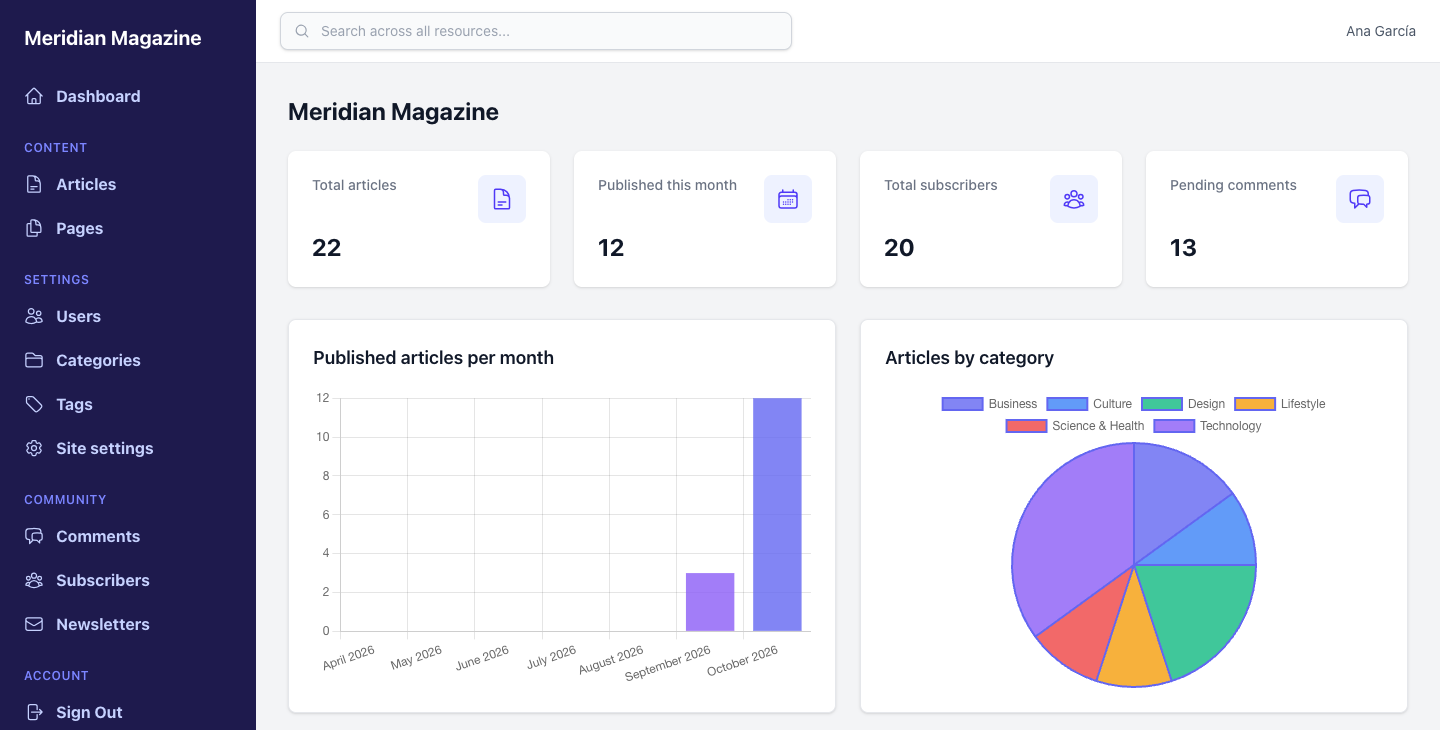
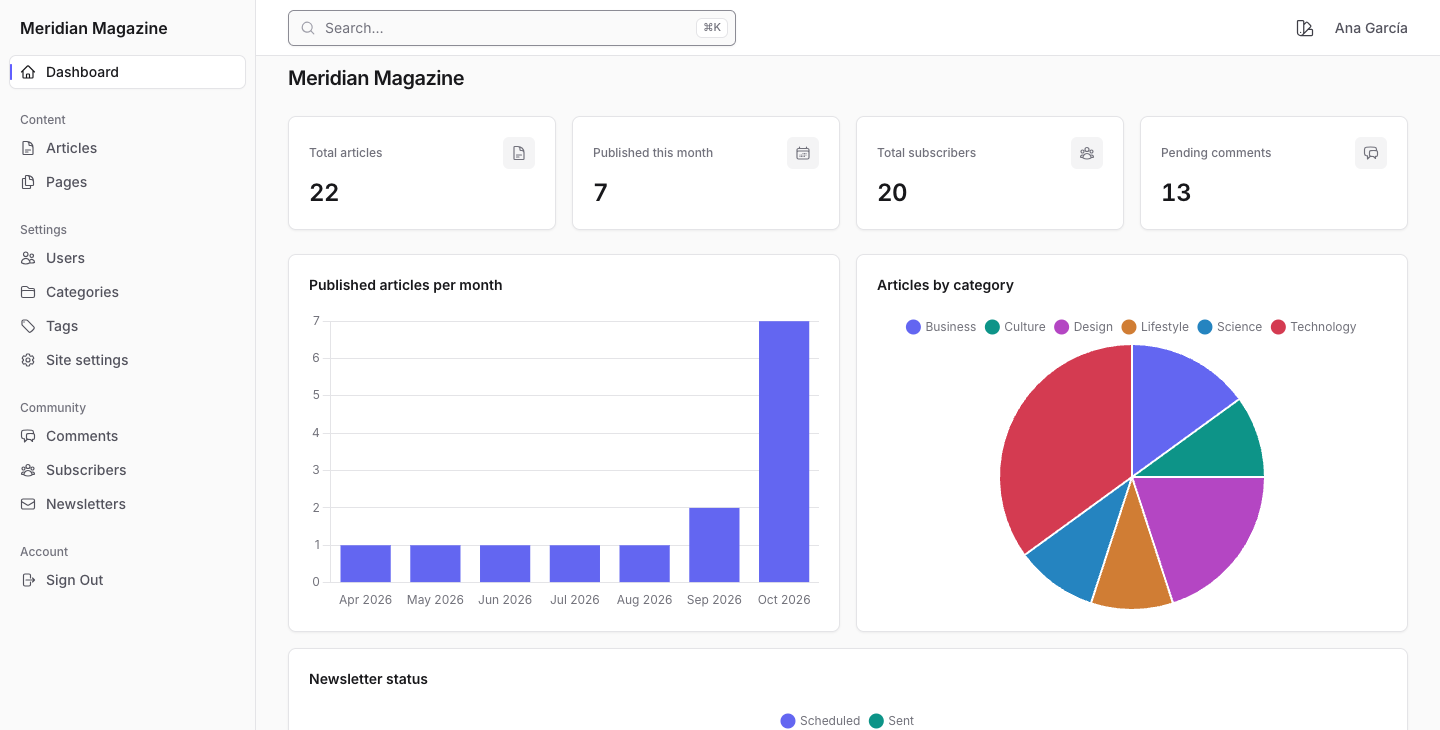
Show the Neutral look and the four demo themes in the docs
The README and the documentation home page now show the Meridian
Magazine dashboard in Neutral, with alt text that describes it. A grid
of the demo's dashboard in Neutral, Midnight, Editorial and Brutalist
opens the README's Themes section and the theming guide.

diff --git a/CHANGELOG.md b/CHANGELOG.md
@@ -84,6 +84,7 @@ and this project adheres to [Semantic Versioning](https://semver.org/spec/v2.0.0
 
 ### Documentation
 
+- **Screenshots of the new look** — The README and the documentation site's home page show the Meridian Magazine dashboard in Neutral, and the README's Themes section and the top of the theming guide show the demo's dashboard in its four themes: Neutral, Midnight, Editorial and Brutalist (`docs/site/assets/images/themes.png`).
 - **Theming guide** — `docs/guides/theming.md` documents the Neutral look, every theme property with its Neutral value and what it controls, `config.theme`, `register_theme` with a complete dark theme, `default_theme`, `theme_resolver` (per user and from a query parameter), the theme switcher and its cookie, `IronAdmin.current_theme`, fonts (privacy, Content Security Policy and how to turn the Google Fonts request off), color schemes and charts, badge and alert palettes, and the Tailwind rules for classes in host themes. `docs/reference/theme-properties.md` is now the theme API reference, the configuration reference, routes reference, components guide and README cover themes, UPGRADING.md has a 0.8.0 section with a snippet that restores the 0.7 look, and the fields guide lists the real default badge colors (it showed `completed` as blue and `draft` as yellow, and values IronAdmin does not map).
 - **Live demo links** — The README, the docs index (`docs/README.md`) and the documentation site's home and Getting Started pages link to the live demo at https://demo.ironadmin.rubylab.app/ and to its source, the [Meridian Magazine](https://github.com/rubylab-app/meridian_magazine) Rails app, where you sign in by picking an admin, an editor or an author. The site's sidebar also links to the live demo. The README and the site's home page show a screenshot of the demo's dashboard, stored at `docs/site/assets/images/demo-dashboard.png` so the site publishes it and the gem does not package it. The home page also uses it as its social preview image (`og:image`), so a shared link to the documentation shows the screenshot.
 - **0.7.0 release post** — The README and the documentation site's home page link to the post about what changed in 0.7.0 and how it was tested: [IronAdmin 0.7: The Whole Roadmap Shipped, Then I Tried to Break It](https://medium.com/@pedroperafncarrasco_83095/ironadmin-0-7-the-whole-roadmap-shipped-then-i-tried-to-break-it-6be683936023).

diff --git a/README.md b/README.md
@@ -8,7 +8,7 @@ Convention-over-configuration admin panel engine for Ruby on Rails. Build beauti
 
 **[Live demo](https://demo.ironadmin.rubylab.app/)** · [Demo source](https://github.com/rubylab-app/meridian_magazine) · [Documentation](https://rubylab-app.github.io/iron_admin/) · [What's new in 0.7](https://medium.com/@pedroperafncarrasco_83095/ironadmin-0-7-the-whole-roadmap-shipped-then-i-tried-to-break-it-6be683936023)
 
-[![The IronAdmin dashboard of the Meridian Magazine demo, with metric cards, a bar chart of articles published per month and a pie chart of articles by category](docs/site/assets/images/demo-dashboard.png)](https://demo.ironadmin.rubylab.app/)
+[![The IronAdmin dashboard of the Meridian Magazine demo in the default Neutral theme: a light gray sidebar, white metric cards with thin borders, an indigo bar chart of articles published per month and a pie chart of articles by category](docs/site/assets/images/demo-dashboard.png)](https://demo.ironadmin.rubylab.app/)
 
 The demo is Meridian Magazine, a Rails 8 app built with IronAdmin. Sign in as one of three
 users (an admin, an editor or an author; no password needed) and see how resource policies
@@ -169,6 +169,11 @@ end
 Visit `/admin` and your admin panel is ready!
 
 ## Themes
+
+[![The Meridian Magazine dashboard in four IronAdmin themes: Neutral, light with black buttons; Midnight, dark with a violet accent; Editorial, cream paper with black rules and serif headings; Brutalist, monospace with thick black borders, hard shadows and yellow accents](docs/site/assets/images/themes.png)](docs/guides/theming.md)
+
+The four themes of the [Meridian Magazine demo](https://github.com/rubylab-app/meridian_magazine).
+The [Theming Guide](docs/guides/theming.md) shows how to build your own.
 
 The default look, **Neutral**, is a minimal light theme: zinc grays, white surfaces with 1px
 borders, the Inter typeface, a black primary button and an indigo accent. Change any of its

diff --git a/docs/site/index.md b/docs/site/index.md
@@ -18,7 +18,7 @@ interfaces with minimal code.
 [Try the live demo](https://demo.ironadmin.rubylab.app/){: .btn .fs-5 .mb-4 .mb-md-0 .mr-2 }
 [View on GitHub](https://github.com/rubylab-app/iron_admin){: .btn .fs-5 .mb-4 .mb-md-0 }
 
-[![The IronAdmin dashboard of the Meridian Magazine demo, with metric cards, a bar chart of articles published per month and a pie chart of articles by category]({{ '/assets/images/demo-dashboard.png' | relative_url }})](https://demo.ironadmin.rubylab.app/)
+[![The IronAdmin dashboard of the Meridian Magazine demo in the default Neutral theme: a light gray sidebar, white metric cards with thin borders, an indigo bar chart of articles published per month and a pie chart of articles by category]({{ '/assets/images/demo-dashboard.png' | relative_url }})](https://demo.ironadmin.rubylab.app/)
 
 The [live demo](https://demo.ironadmin.rubylab.app/) is Meridian Magazine, a Rails 8 app
 built with IronAdmin. Sign in as one of three users (an admin, an editor or an author; no

diff --git a/docs/guides/theming.md b/docs/guides/theming.md
@@ -9,6 +9,12 @@ and a color scheme. IronAdmin ships one theme, **Neutral**, and uses it by defau
 - choose which theme each request uses with `config.theme_resolver`. By default the resolver
   reads a cookie that the theme switcher in the navbar sets.
 
+![The Meridian Magazine dashboard in four themes: Neutral, light with black buttons; Midnight, dark with a violet accent; Editorial, cream paper with black rules and serif headings; Brutalist, monospace with thick black borders, hard shadows and yellow accents](../site/assets/images/themes.png)
+
+The [Meridian Magazine demo](https://github.com/rubylab-app/meridian_magazine) registers three
+themes beside Neutral: Midnight, Editorial and Brutalist. Each is one `config.register_theme`
+block, and the switcher in its navbar moves between the four.
+
 Sections:
 
 - [Neutral, the default look](#neutral-the-default-look)
